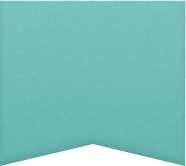
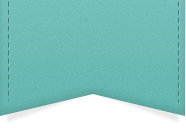
Featured navigation added and changes made to the main nav

diff --git a/css/styles.css b/css/styles.css
@@ -244,7 +244,7 @@ header .snowcone {
 
 #nav {
 	background: url("../img/nav_bgd.jpg") repeat-x 0 0 #4a473e;
-	font-size: 1.09em;
+	font-size: 1.13em;
 	height: 52px;
 	line-height: 20px;
 	margin: 0 auto;
@@ -279,7 +279,7 @@ header .snowcone {
 	color: #fff;
 	display: inline-block;
 	height: 16px;
-	padding: 18px 1em;
+	padding: 18px 1.6em;
 	text-decoration: none;
 }
 
@@ -300,35 +300,31 @@ header .snowcone {
 
 /*** Featured ***/
 
-header .featured {
-	/*background: #68b9b3;*/
-	background: url("../img/featured_bgd.png") no-repeat 0 0 scroll transparent;
+.featured {
+	background: url("../img/featured_bgd.png") no-repeat 0 0 transparent;
 	position: absolute;
 	top: 0;
-	height: 166px;
 	right: 120px;
 	width: 186px;
-	padding: 0 8px 0;
+	height: 128px;
+	text-align: center;
+	color: #555;
 }
 
-header .featured ul {
-	border-left: 1px dashed #000;
-	border-right: 1px dashed #000;
+.featured ul {
 	font-family: 'UbuntuMedium', helvetica, arial, sans-serif;
 	margin: 0;
 	padding: 0;
-	width: 168px;
-	height: 150px;
 }
 
-header .featured ul li {
-	background: url("../img/star.png") no-repeat 10px 6px transparent;
-	text-align: center;
+.featured ul li {
+	background: url("../img/star.png") no-repeat 18px 6px transparent;
+	text-align: left;
 	margin-top: 6px;
-	padding-left: 12px;
+	padding-left: 35px;
 }
 
-header .featured ul li a {
+.featured ul li a {
 	color: #fff;
 }
 

diff --git a/_layouts/default.html b/_layouts/default.html
@@ -25,6 +25,13 @@
     </div>
     <header id="home">
     	<h1>Django Oscar <span class="snowcone">V</span><br /><strong>Domain-driven e-commerce for Django</strong></h1>
+		<div class="featured">
+			External Links
+			<ul>
+				<li><a href="http://django-oscar.readthedocs.org/en/latest/">Documents</a></li>
+				<li><a href="http://github.com/tangentlabs/django-oscar">Source</a></li>
+			</ul>
+		</div>
     </header>
     <div id="nav" class="topbar" data-scrollspy="scrollspy">
     	<ul>
@@ -39,8 +46,8 @@
     		<li><a href="{{ base_url }}#news">News</a></li>
     		<li><a href="{{ base_url }}#roadmap">Roadmap</a></li>
     		<li><a href="{{ base_url }}#contributing">Contributing</a></li>
-    		<li><a href="http://django-oscar.readthedocs.org/en/latest/">Docs</a></li>
-    		<li><a href="http://github.com/tangentlabs/django-oscar">Source</a></li>
+    		<!-- <li><a href="http://django-oscar.readthedocs.org/en/latest/">Docs</a></li>
+    		<li><a href="http://github.com/tangentlabs/django-oscar">Source</a></li> -->
     	</ul>
     </div>
     <section id="page_content">
